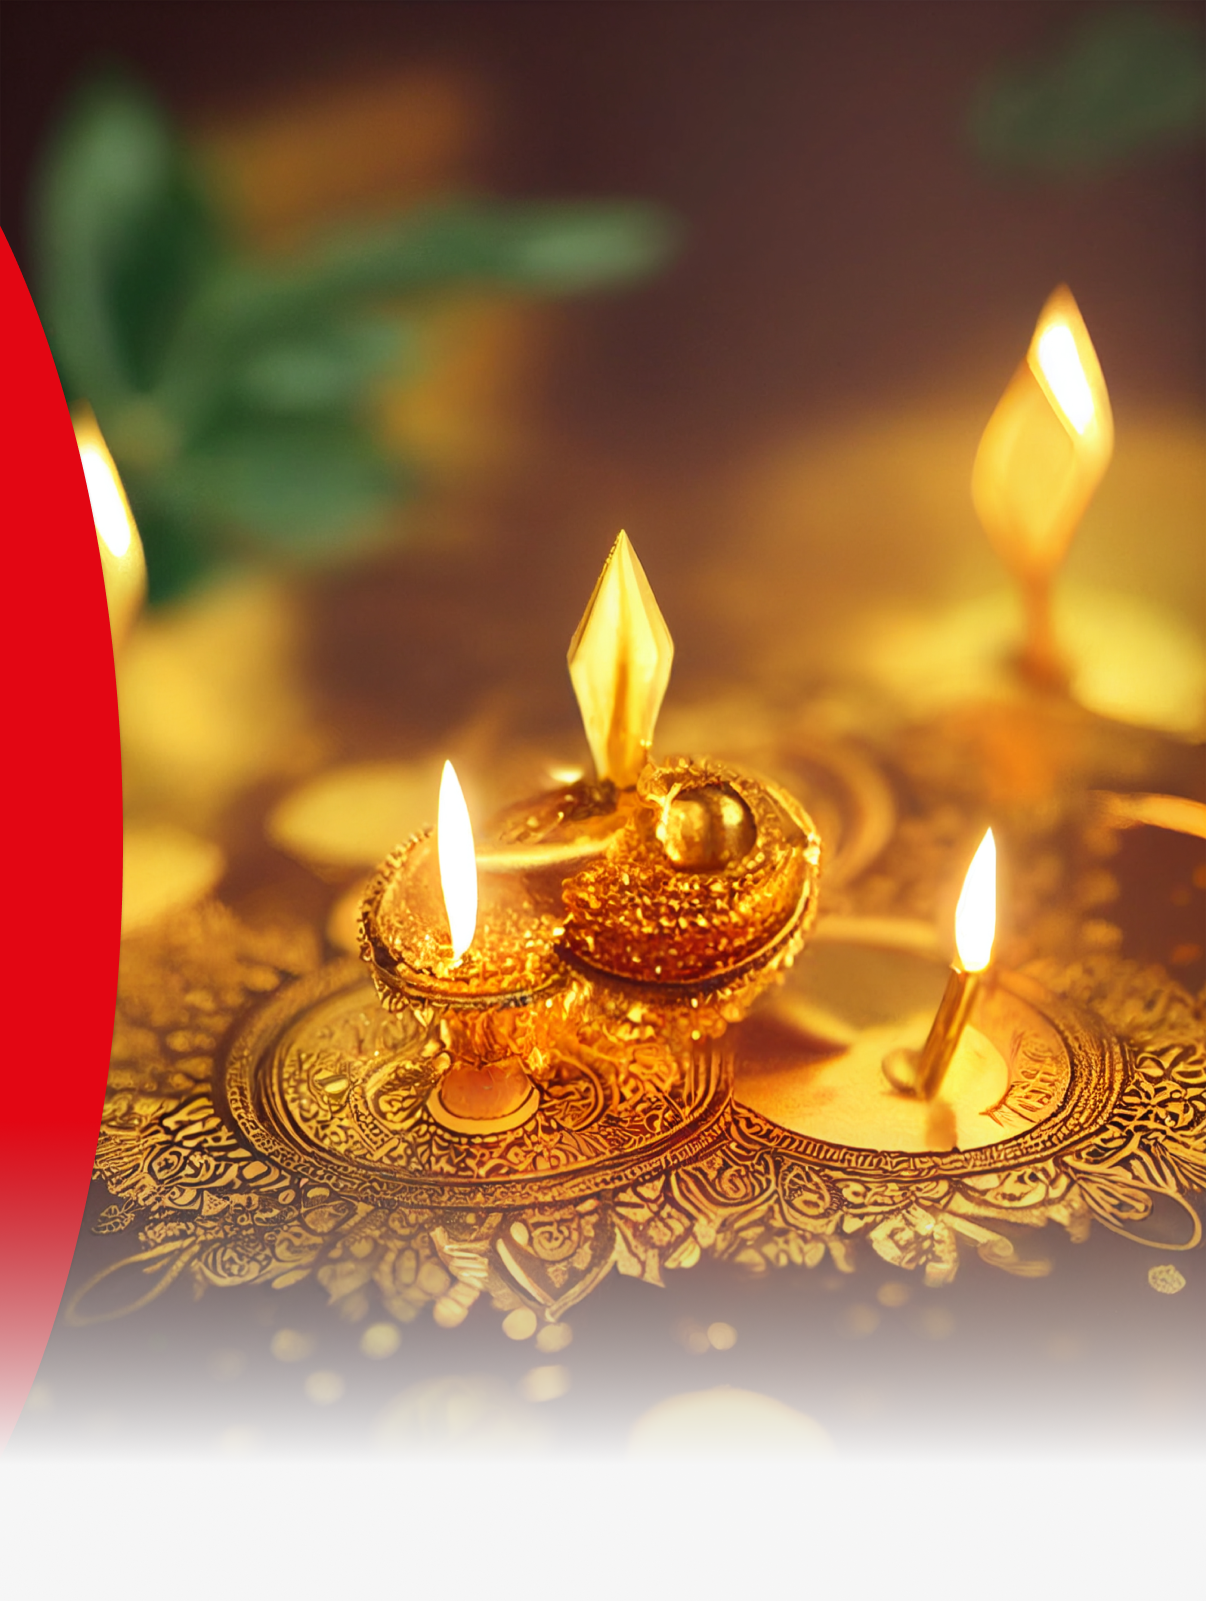
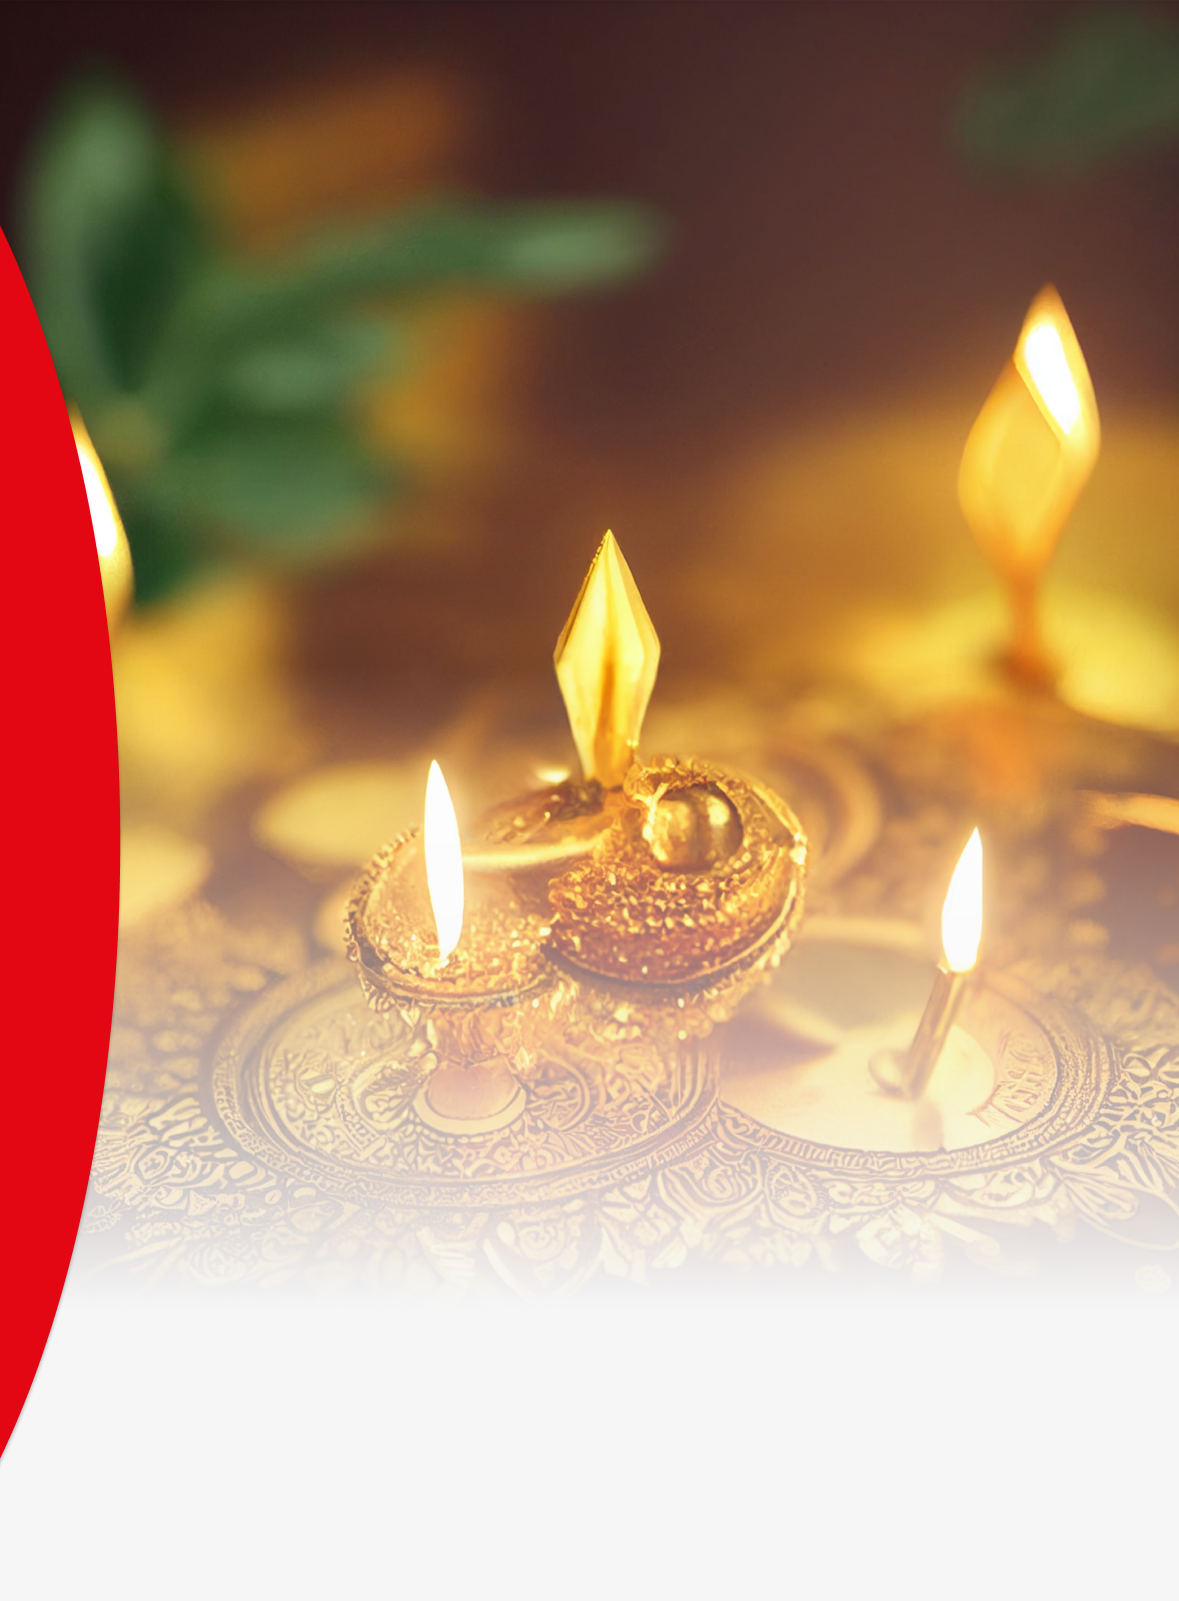
try please

diff --git a/bonusplusenhanced/app/page.tsx b/bonusplusenhanced/app/page.tsx
@@ -6,22 +6,6 @@ import { Button } from "@/components/ui/button"
 import { Card } from "@/components/ui/card"
 import { useRouter } from 'next/navigation';
 import { ExpandIcon, NotificationIcon } from "@/components/icon-components"
-// import { PushNotificationManager } from "@/components/push_manager"
-
-// function urlBase64ToUint8Array(base64String: string) {
-//   const padding = '='.repeat((4 - (base64String.length % 4)) % 4)
-//   const base64 = (base64String + padding)
-//     .replace(/\\-/g, '+')
-//     .replace(/_/g, '/')
- 
-//   const rawData = window.atob(base64)
-//   const outputArray = new Uint8Array(rawData.length)
- 
-//   for (let i = 0; i < rawData.length; ++i) {
-//     outputArray[i] = rawData.charCodeAt(i)
-//   }
-//   return outputArray
-// }
 
 export default function Component() {
   const router = useRouter();
@@ -31,32 +15,30 @@ export default function Component() {
   };
   return (
     <div className="min-h-screen bg-background">
-      {/* <PushNotificationManager/> */}
       <div className="relative">
-      <div className="relative h-screen"> {/* Use h-screen to make it fill the viewport height */}
-        <Image
-          src="/deepavali.png"
-          alt="Deepavali celebration background"
-          layout="fill"           // Use `layout="fill"` to make it occupy the entire div
-          objectFit="cover"        // Ensures the image covers the entire container
-          className="brightness-75" // Adjust brightness if needed
-        />
-        <div className="absolute top-4 flex justify-between w-full px-4 z-10">
-          <ExpandIcon/>
-          <NotificationIcon/>
-        </div>
-        <div className="absolute bottom-4 right-4 text-white">
-          <div className="flex items-center gap-2">
-            <span className="text-sm">🪔</span>
-            <div>
-              <div className="text-sm font-medium">OCBC Singapore</div>
-              <div className="text-lg font-bold">Happy Deepavali!</div>
+        <div className="relative w-full" style={{ height:'1601px'}}> {/* Reduced height to allow overlap */}
+          <Image
+            src="/deepavali.png"
+            alt="Deepavali celebration background"
+            layout="fill"
+            objectFit="cover"
+            className="brightness-75"
+          />
+          <div className="absolute top-4 flex justify-between w-full px-4 z-10">
+            <ExpandIcon />
+            <NotificationIcon />
+          </div>
+          <div className="absolute bottom-28 right-4 text-white"> {/* Moved up to overlap */}
+            <div className="flex items-center gap-2">
+              <div >
+                <div className="text-sm font-medium">OCBC Singapore</div>
+                <div className="text-lg font-bold">🪔 Happy Deepavali!</div>
+              </div>
             </div>
           </div>
         </div>
-      </div>
         
-        <Card className="mx-4 -mt-6 relative z-10 p-6 grid gap-8 ocbc-white-bg">
+        <Card className="mx-4 -mt-20 relative z-10 p-6 grid gap-8 bg-white shadow-lg"> {/* Increased negative margin for overlap */}
           <div className="grid grid-cols-3 gap-8">
             <div className="flex flex-col items-center gap-2">
               <div className="p-3 bg-primary/10 rounded-lg">
@@ -125,7 +107,7 @@ export default function Component() {
           </div>
           
           <div className="space-y-4">
-            <Button className="w-full py-6 text-lg bg-slate-700	" variant="default" onClick={handleClick}>
+            <Button className="w-full py-6 text-lg bg-slate-700" variant="default" onClick={handleClick}>
               Log in to OCBC Singapore
             </Button>
             <p className="text-sm text-muted-foreground">
